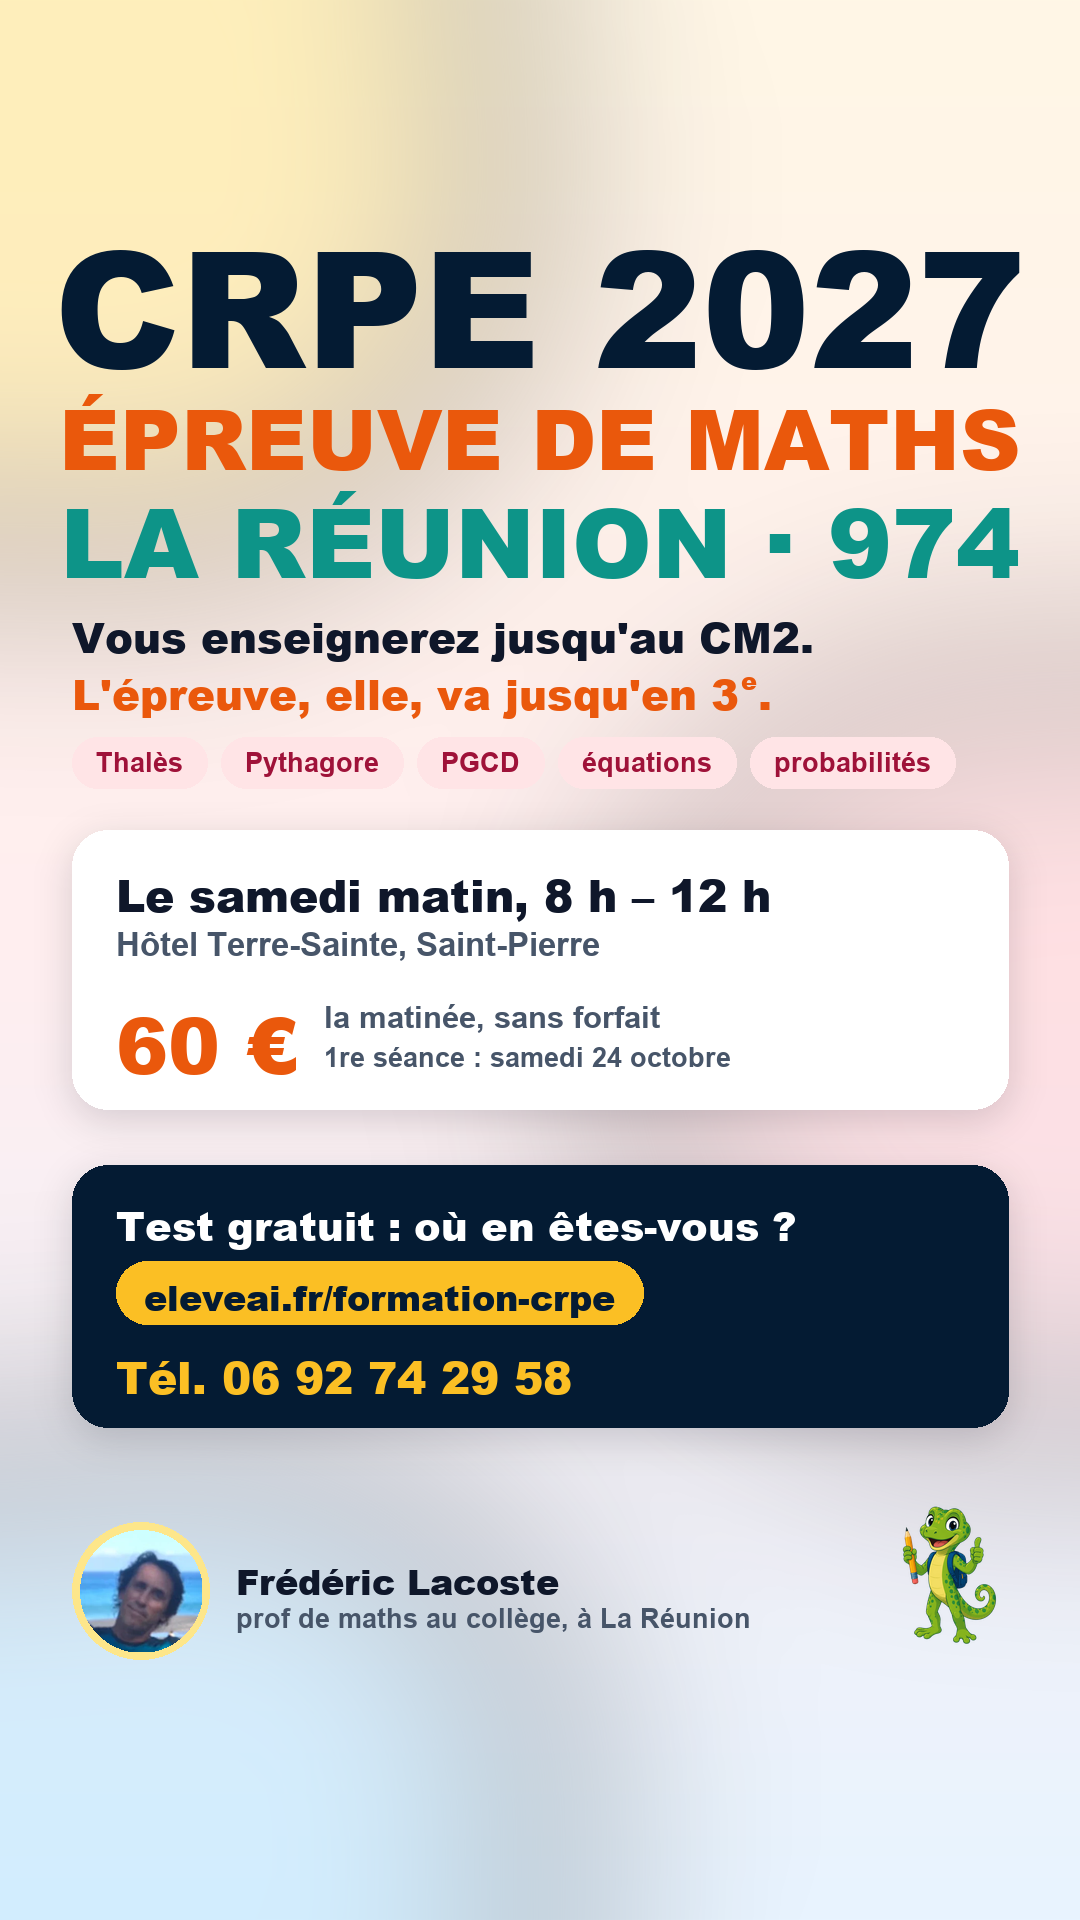
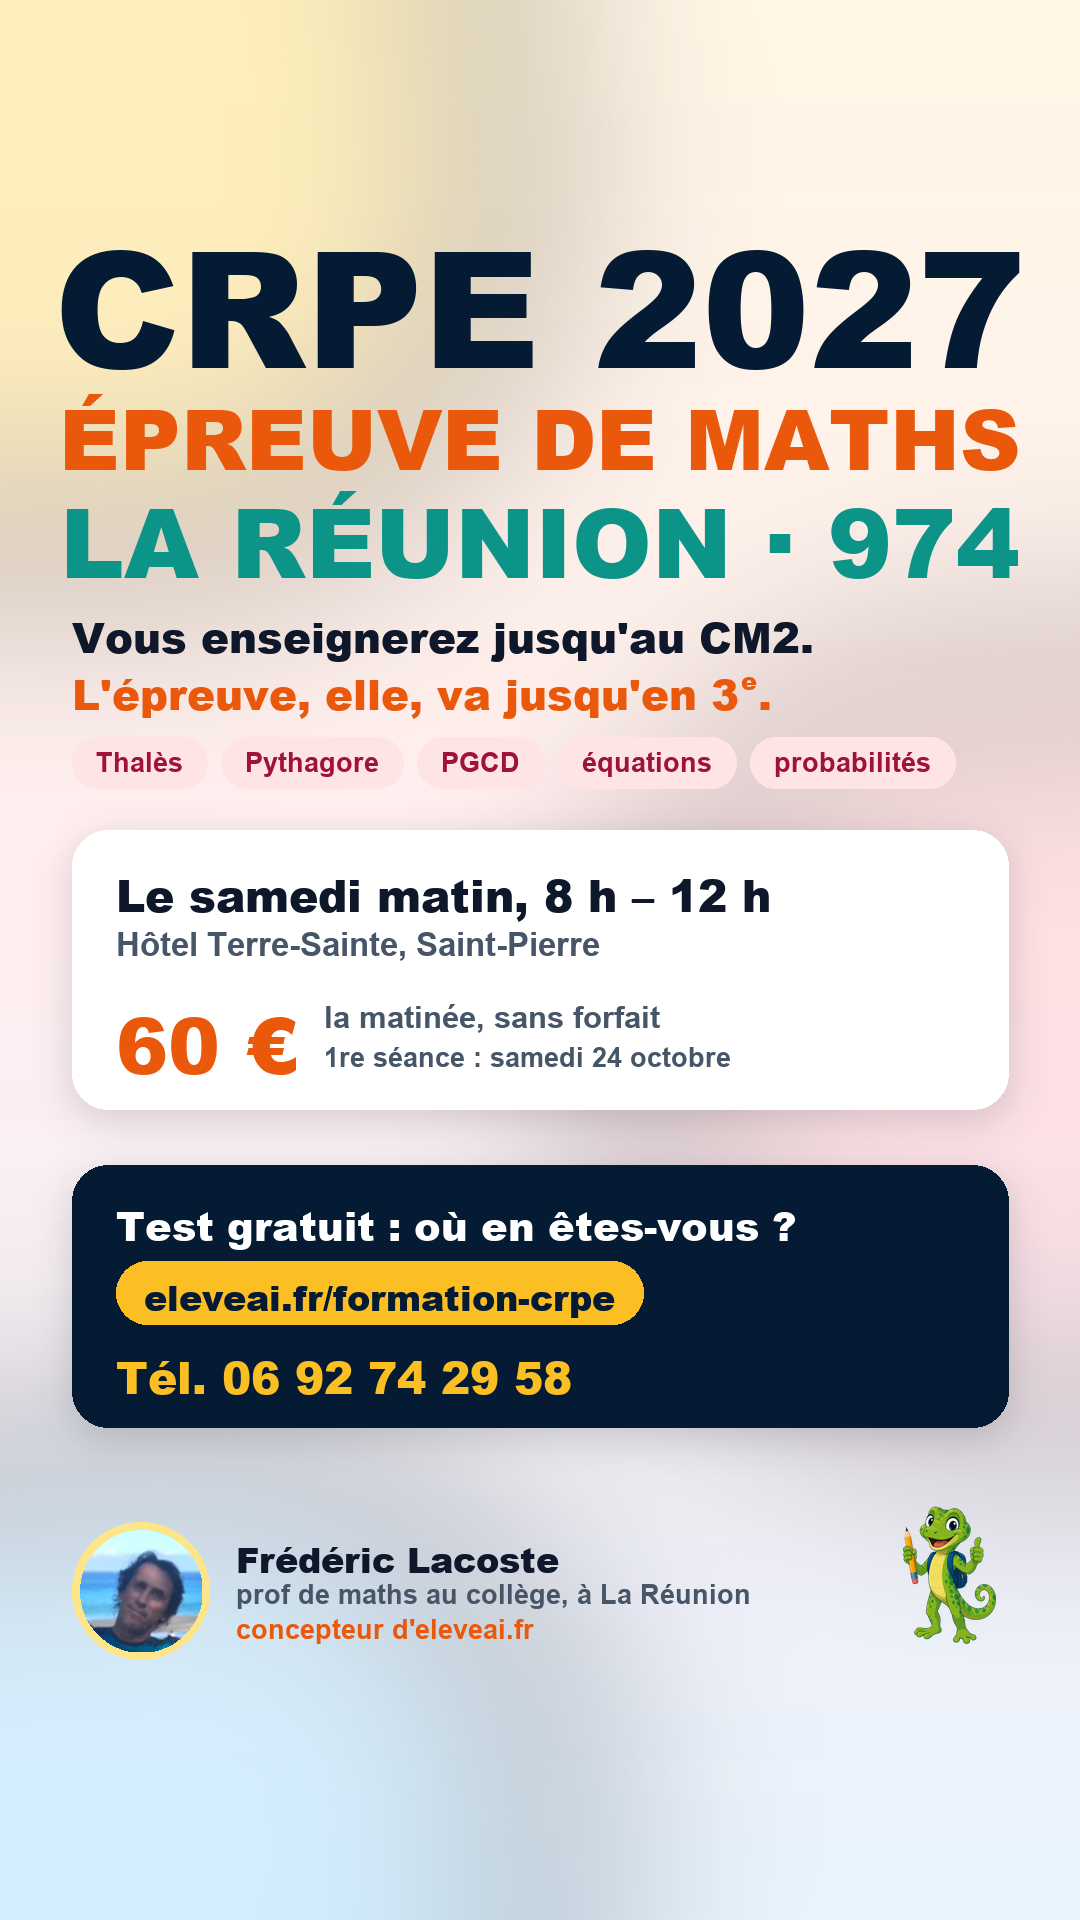
Pub CRPE : « concepteur d'eleveai.fr » sous le nom de Frederic

Changed region(s): [[0.2139, 0.7812, 0.7028, 0.875]]

diff --git a/scripts/pub-crpe-instagram.py b/scripts/pub-crpe-instagram.py
@@ -186,8 +186,10 @@ def composer(h):
     av = avatar_rond(k(132))
     im.paste(av, (marge, bas - av.height), av)
     tx = marge + av.width + 26
-    d.text((tx, bas - k(112)), "Frédéric Lacoste", font=NOIR(k(38)), fill=ENCRE)
-    d.text((tx, bas - k(62)), "prof de maths au collège, à La Réunion", font=GRAS(k(30)), fill=GRIS)
+    # 15/10 : « concepteur d'eleveai.fr » sous le nom (demande de Frédéric).
+    d.text((tx, bas - k(136)), "Frédéric Lacoste", font=NOIR(k(38)), fill=ENCRE)
+    d.text((tx, bas - k(88)), "prof de maths au collège, à La Réunion", font=GRAS(k(30)), fill=GRIS)
+    d.text((tx, bas - k(50)), "concepteur d'eleveai.fr", font=GRAS(k(30)), fill=ORANGE)
     tm = Image.open(TI_MARGO).convert("RGBA")
     tm_h = k(190)
     tm = tm.resize((int(tm.width * tm_h / tm.height), tm_h), Image.LANCZOS)
@@ -227,8 +229,9 @@ def composer_partage():
     # La signature, en bas à gauche
     av = avatar_rond(92)
     im.paste(av, (marge, LH - 40 - av.height), av)
-    d.text((marge + av.width + 18, LH - 40 - 78), "Frédéric Lacoste", font=NOIR(28), fill=ENCRE)
-    d.text((marge + av.width + 18, LH - 40 - 40), "prof de maths au collège", font=GRAS(24), fill=GRIS)
+    d.text((marge + av.width + 18, LH - 40 - 96), "Frédéric Lacoste", font=NOIR(28), fill=ENCRE)
+    d.text((marge + av.width + 18, LH - 40 - 60), "prof de maths au collège", font=GRAS(22), fill=GRIS)
+    d.text((marge + av.width + 18, LH - 40 - 32), "concepteur d'eleveai.fr", font=GRAS(22), fill=ORANGE)
 
     # La colonne de droite : l'offre, puis l'action
     x0, x1 = gauche + marge + 50, LW - marge
